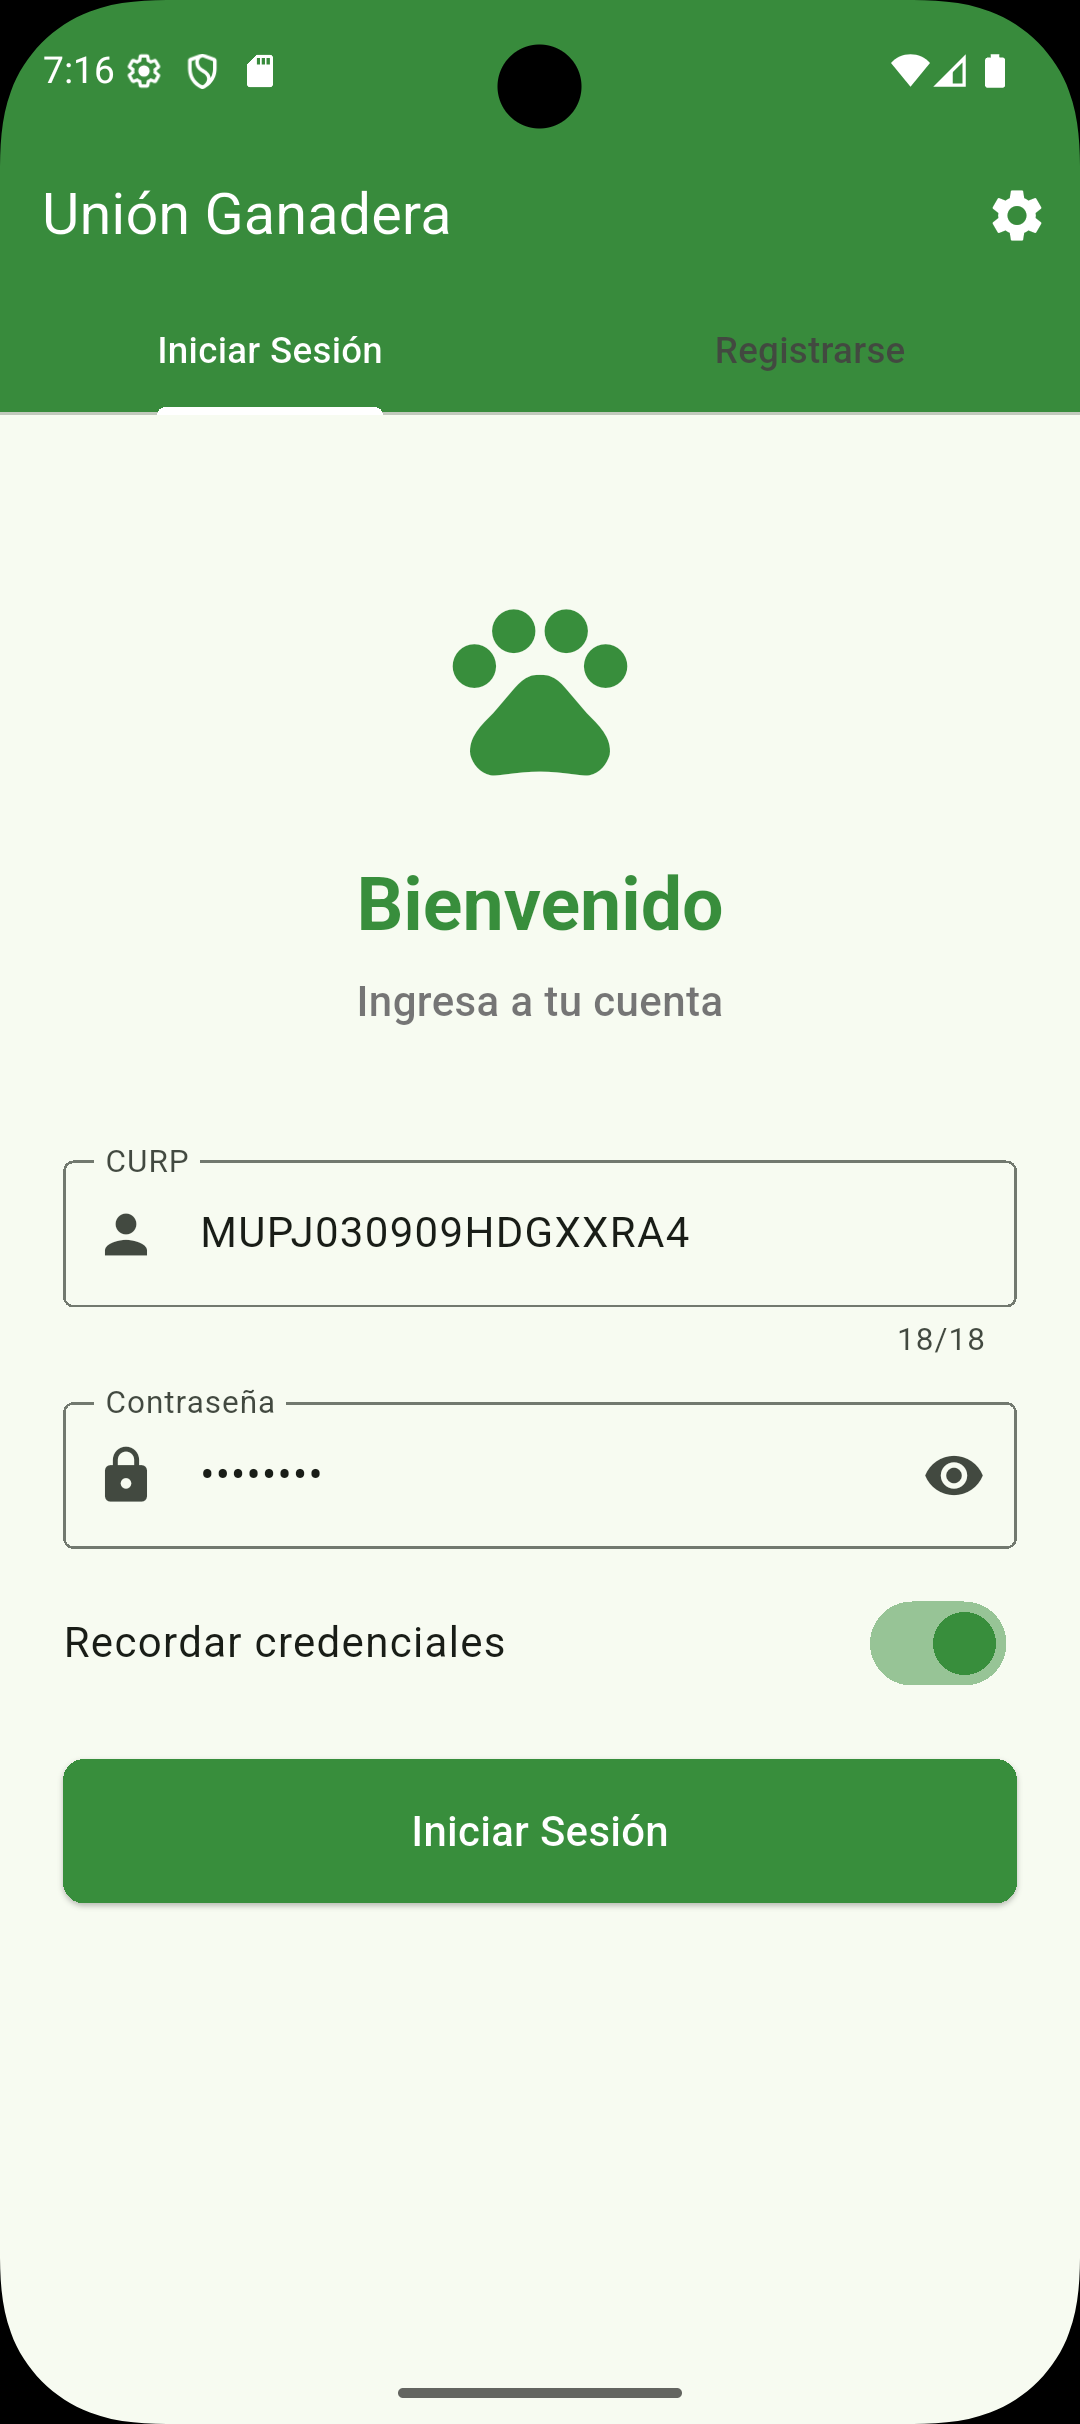
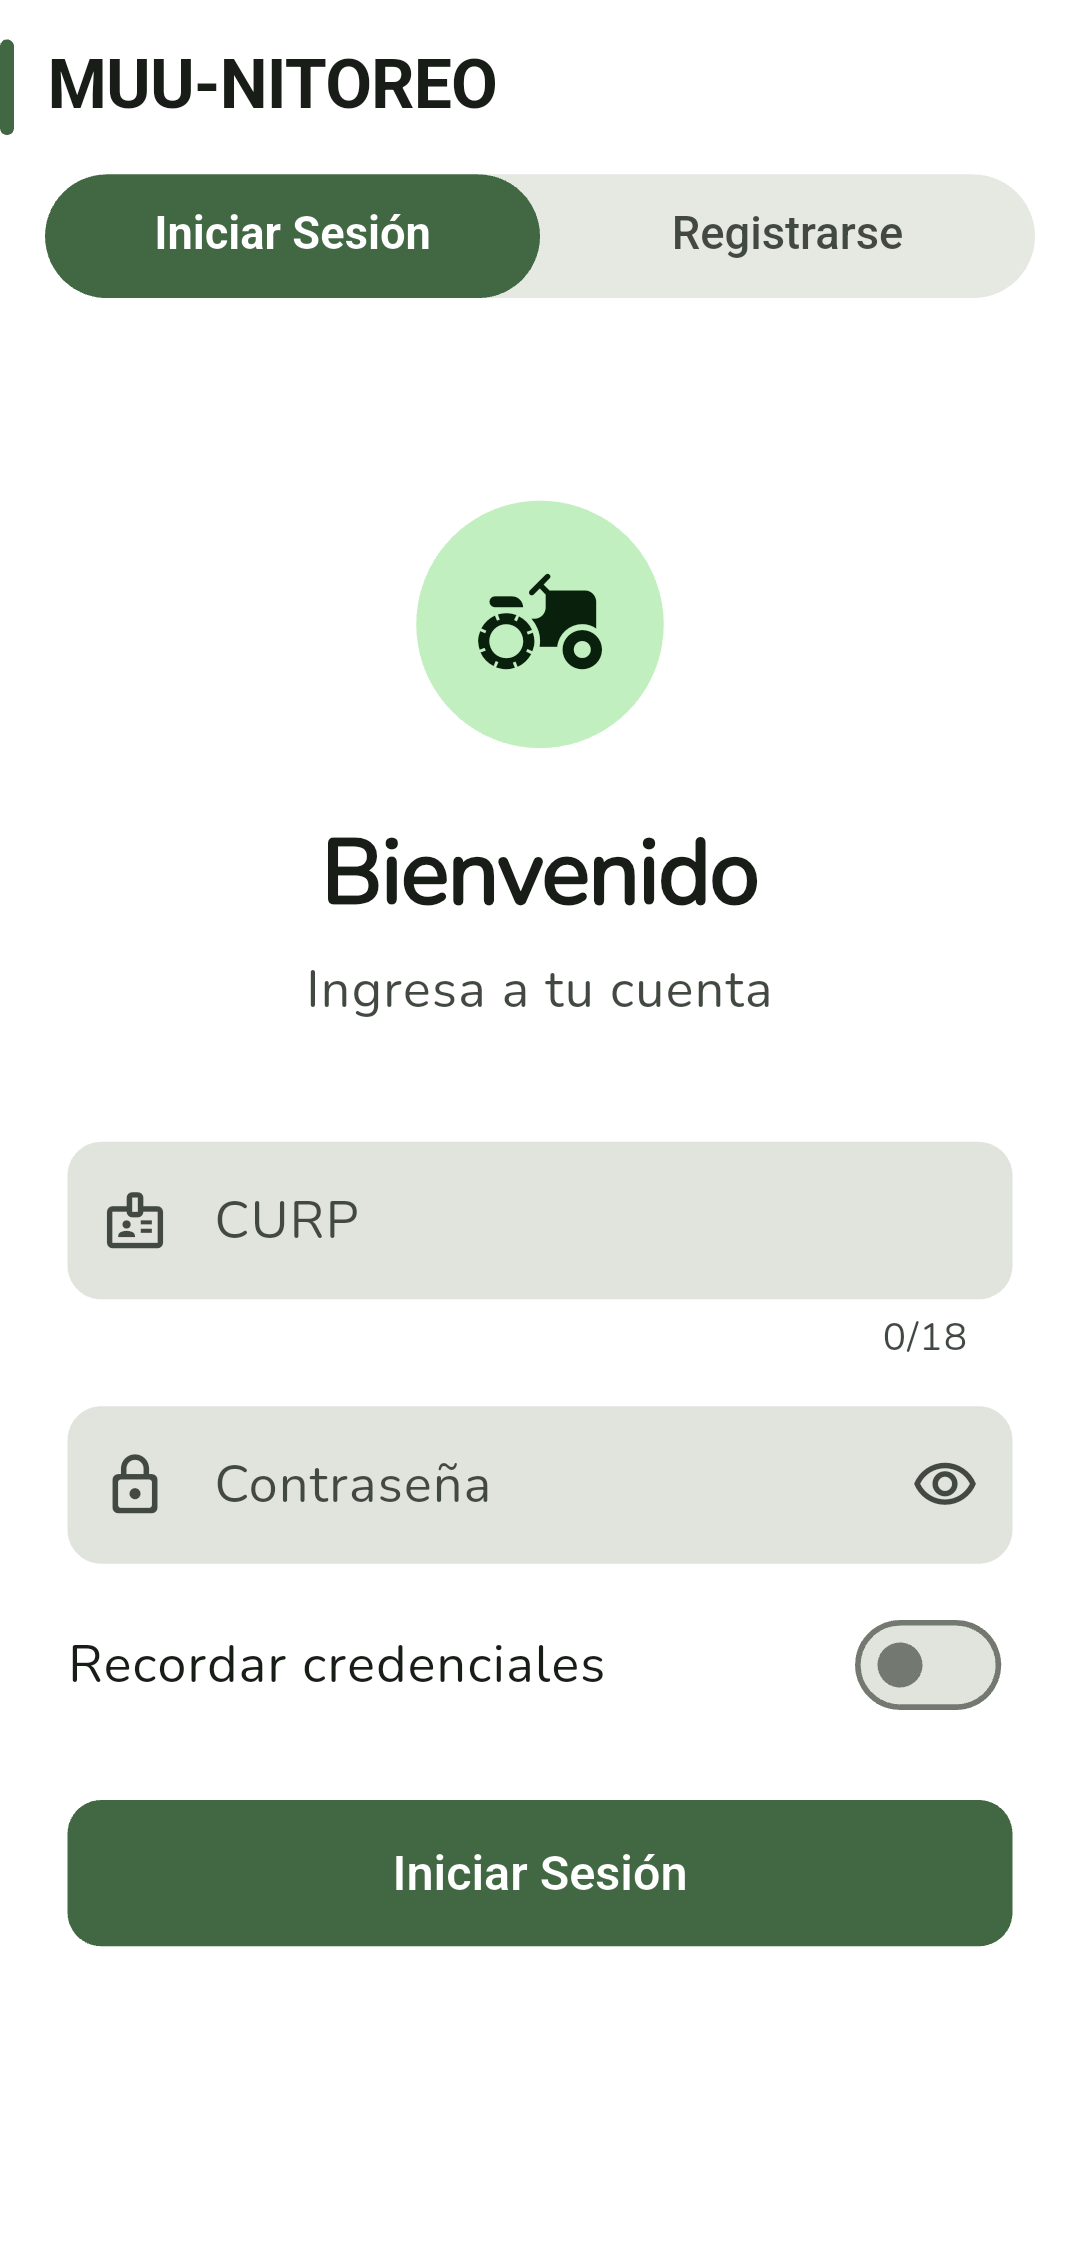
Update readme

diff --git a/README.md b/README.md
@@ -10,7 +10,7 @@ Este proyecto es parte de un ecosistema más grande. Revisa los otros repositori
 
 ## 📋 Descripción
 
-Esta aplicación permite a los ganaderos registrar y gestionar su ganado, predios y eventos relacionados con la actividad ganadera. Incluye funcionalidades avanzadas como lectura de códigos de barras, NFC, captura de ubicación GPS y carga de documentos.
+Esta aplicación permite a los **ganaderos y veterinarios** registrar y gestionar su ganado, predios y eventos relacionados con la actividad ganadera. Incluye funcionalidades avanzadas como lectura de códigos de barras, NFC, captura de ubicación GPS, carga de documentos y una interfaz renovada con **Material 3 Expressive** y fuente **Nunito**.
 
 <p align="center">
   <img src=".resources/img/1.png" width="30%" />
@@ -21,16 +21,21 @@ Esta aplicación permite a los ganaderos registrar y gestionar su ganado, predio
 <p align="center">
   <img src=".resources/img/4.png" width="30%" />
   <img src=".resources/img/5.png" width="30%" />
+  <img src=".resources/img/6.png" width="30%" />
+</p>
+
+<p align="center">
+  <img src=".resources/img/7.png" width="30%" />
 </p>
 
 ## ✨ Características
 
 ### Autenticación de Usuarios
-- Interfaz unificada con tabs (Iniciar Sesión / Registrarse)
+- Interfaz unificada con **tabs segmentados en forma de píldora** (Iniciar Sesión / Registrarse)
 - Registro con validación de INE y CURP (formato automático en mayúsculas)
 - Autenticación JWT con manejo automático de sesiones
 - Guardado opcional de credenciales
-- Configuración de API personalizable (IP y puerto)
+- Configuración de API personalizable (IP y puerto) desde el ícono de engranaje
 - Cierre de sesión automático ante respuestas 401 (no autenticado)
 - Validación de contraseña con límite de 72 caracteres
 
@@ -50,10 +55,11 @@ Esta aplicación permite a los ganaderos registrar y gestionar su ganado, predio
   - Botón flotante de edición en la vista detallada
   - Interfaz idéntica al registro con datos pre-cargados
 - **Selección múltiple:**
-  - Modo de selección múltiple con checkboxes
-  - Registro de eventos masivos para varios animales simultáneamente
+  - Mantén presionado cualquier animal para activar el modo de selección
+  - Checkboxes para seleccionar múltiples animales
+  - Registro de eventos masivos para todos los seleccionados simultáneamente
 - **Historial de eventos:**
-  - Visualización por tipo de evento
+  - Visualización en línea de tiempo por tipo de evento
   - Detalles de peso mostrando peso nuevo y peso anterior
 
 ### Gestión de Predios
@@ -64,19 +70,25 @@ Esta aplicación permite a los ganaderos registrar y gestionar su ganado, predio
 - Manejo adaptativo de teclado en formularios
 
 ### Registro de Eventos
-- **9 tipos de eventos disponibles:**
-  - Peso (con historial de peso anterior)
-  - Dieta
-  - Vacunación
-  - Desparasitación
-  - Laboratorio
-  - Compra/Venta
-  - Traslado
-  - Enfermedad
-  - Tratamiento
-- Registro individual o múltiple (selección masiva)
+
+Los eventos disponibles dependen del **rol del usuario**:
+
+**Todos los usuarios:**
+- `peso` — Registro de peso con historial del peso anterior
+- `dieta` — Cambio de tipo de alimento
+- `compraventa` — Transferencia de propiedad con CURP del comprador
+
+**Solo veterinarios** (rol `veterinario`):
+- `vacunacion` — Tipo, lote, laboratorio y fecha próxima
+- `desparasitacion` — Medicamento, dosis y fecha próxima
+- `laboratorio` — Tipo de análisis y resultado
+- `enfermedad` — Descripción y tratamiento aplicado
+- `tratamiento` — Medicamento, dosis y período
+
+El ID del veterinario se toma automáticamente de la sesión activa — no se solicita al usuario. Los veterinarios también pueden registrar eventos para ganado de terceros desde la pantalla **Eventos Veterinarios** (búsqueda por código de barras o RFID).
+
+- Registro individual o masivo (selección múltiple)
 - Historial completo de eventos agrupados por tipo
-- Visualización de eventos con detalles específicos según el tipo
 
 ### Perfil de Usuario
 - Visualización de datos personales
@@ -87,7 +99,7 @@ Esta aplicación permite a los ganaderos registrar y gestionar su ganado, predio
 ## 🛠 Requisitos Previos
 
 - Flutter SDK 3.7.2 o superior
-- Dart 2.19.0 o superior
+- Dart 3.0.0 o superior
 - Android Studio / VS Code con extensiones de Flutter
 - Dispositivo Android/iOS o emulador configurado
 - API Backend en ejecución (ver [API_DOCUMENTATION.md](API_DOCUMENTATION.md))
@@ -155,25 +167,37 @@ La aplicación requiere los siguientes permisos:
 - NSPhotoLibraryUsageDescription (galería de fotos)
 - NFCReaderUsageDescription (lectura de tags NFC)
 
-## 🎨 Características de Diseño
+## 🎨 Diseño — Material 3 Expressive
 
-### Material Design 3
-- Paleta de colores consistente con tema verde para ganadería
-- Tipografía Roboto con jerarquía clara
-- Elevaciones y sombras sutiles para profundidad
+### Tema y Colores
+- Paleta generada con `ColorScheme.fromSeed` usando verde forestal `#1B6E35`
+- `scaffoldBackgroundColor: surfaceContainerLowest` — fondo ultra-suave
+- `useMaterial3: true` en toda la app
 
-### Componentes Personalizados
-- **Button Groups:** ChoiceChip wraps para opciones múltiples (raza, propósito, status)
-- **Grid Layout:** Cards con iconos para información estructurada
-- **Modal Sheets:** Bottom sheets con bordes redondeados y manejo de teclado
-- **FABs Extendidos:** Botones flotantes con etiquetas para mejor UX
-- **Gradientes:** Headers con gradientes para destacar información clave
+### Tipografía
+- Fuente principal: **Nunito** (via `google_fonts`) aplicada a todo el `textTheme`
+- Peso 700 para títulos, 500 para texto secundario
+
+### AppBar (`ModernAppBar`) — Diseño Asimétrico
+- **Barra de acento vertical** de 5×34dp en el color primario — identificador visual de pantalla
+- **Back button** como chip compacto relleno en `accentColor`
+- Título alineado a la izquierda junto al acento
+- Fondo `surfaceContainerLowest` con sombra sutil al hacer scroll
+- El color de acento es personalizable por pantalla via `backgroundColor`
+
+### Componentes
+- **TabBar segmentado:** Píldora con indicador relleno en `primary` (pantalla de autenticación)
+- **Botones:** `FilledButton` primario, `FilledButton.tonal` secundario, `OutlinedButton` neutro
+- **Cards:** Elevación 0, radio 16dp — `surfaceContainerHigh/Low` según contexto
+- **FABs:** `FloatingActionButton.extended` principal, `FloatingActionButton.small` secundario
+- **Bottom Sheets:** Radio superior 28dp con drag handle visible
+- **Inputs:** `filled: true`, radio 12dp, sin borde en estado normal
+- **ChoiceChip en grupos:** Para raza, propósito y status del ganado
 
 ### Responsive & Adaptativo
-- Diseño optimizado para pantallas móviles
-- Manejo automático de teclado en formularios
-- ScrollController para listas largas
-- SafeArea para notches y barras de sistema
+- `LayoutBuilder + Wrap` para grids de información (reemplaza `GridView` fijo)
+- `SafeArea` en todas las rutas
+- Manejo automático de teclado con `SingleChildScrollView`
 
 ## 🚀 Ejecución
 
@@ -242,9 +266,9 @@ flutter run -d <device_id>
    - Guarda los cambios
 
 4. **Selección múltiple:**
-   - Presiona el botón naranja "Selección Múltiple"
-   - Selecciona varios animales usando los checkboxes
-   - Registra eventos para todos los seleccionados simultáneamente
+   - Mantén presionado cualquier animal para activar el modo de selección
+   - Selecciona los animales adicionales con un toque
+   - Presiona el ícono de evento en la AppBar para registrar el evento masivo
 
 5. **Consultar historial:**
    - En la vista detallada, revisa el historial de eventos agrupados por tipo
@@ -265,16 +289,21 @@ flutter run -d <device_id>
 
 ### Registro de Eventos
 1. **Evento individual:**
-   - Selecciona "Eventos" en el menú
-   - Elige el animal para el evento
-   - Selecciona el tipo de evento
-   - Completa el formulario específico del evento
-   - Envía el registro
+   - En la vista detallada del animal, presiona **"Nuevo Evento"**
+   - Selecciona el tipo de evento (los tipos veterinarios solo aparecen si tu rol es `veterinario`)
+   - Completa el formulario y presiona **"Registrar Evento"**
 
 2. **Evento múltiple:**
-   - Activa el modo de selección múltiple en la lista de ganado
-   - Selecciona los animales
-   - Registra el evento (se aplicará a todos los seleccionados)
+   - Mantén presionado un animal para activar selección múltiple
+   - Selecciona los animales adicionales
+   - Toca el ícono de evento en la AppBar
+   - El evento se aplicará a todos los seleccionados
+
+3. **Veterinarios — eventos para ganado de terceros:**
+   - Desde el menú principal ve a **"Eventos Veterinarios"**
+   - Busca el animal por código de barras o RFID (con opción de escanear cámara)
+   - Selecciona y completa el tipo de evento veterinario
+   - El ID del veterinario se asigna automáticamente
 
 ## 📂 Estructura del Proyecto
 
@@ -293,51 +322,56 @@ lib/
 │   ├── predio_service.dart             # CRUD de predios
 │   ├── evento_service.dart             # Registro de eventos por tipo
 │   └── file_service.dart               # Carga de documentos multipart
-├── screens/                            # Pantallas de la aplicación
+├── screens/
+│   ├── splash_screen.dart              # Splash animado (escala + fade)
 │   ├── auth/
-│   │   ├── auth_screen.dart            # Autenticación con tabs (Login/Signup)
+│   │   ├── auth_screen.dart            # Tabs segmentados Login/Signup
+│   │   ├── login_screen.dart           # Formulario de inicio de sesión
 │   │   └── signup_screen.dart          # Formulario de registro
 │   ├── home/
-│   │   └── home_screen.dart            # Pantalla principal con navegación
+│   │   └── home_screen.dart            # NavigationBar M3 con 4 destinos
 │   ├── cattle/
-│   │   ├── cattle_list_screen.dart     # Lista con selección múltiple
+│   │   ├── cattle_list_screen.dart     # Lista + selección múltiple + buscador
 │   │   ├── register_cattle_screen.dart # Registro con button groups y foto nariz
 │   │   ├── edit_cattle_screen.dart     # Edición con datos pre-cargados
-│   │   └── cattle_detail_screen.dart   # Vista detallada con diseño grid
+│   │   └── cattle_detail_screen.dart   # Vista grid responsiva + historial de eventos
 │   ├── predios/
-│   │   ├── predios_screen.dart         # Lista + modal de registro
-│   │   └── predio_detail_screen.dart   # Detalles del predio
+│   │   └── predios_screen.dart         # Lista + bottom sheet de registro con GPS
 │   ├── events/
-│   │   └── register_event_screen.dart  # Registro de eventos por tipo
+│   │   ├── register_event_screen.dart  # Eventos propios (tipos según rol)
+│   │   └── vet_event_screen.dart       # Búsqueda de bovino + eventos veterinarios
 │   ├── profile/
 │   │   └── profile_screen.dart         # Perfil con carga de documentos
 │   └── settings/
 │       └── api_settings_screen.dart    # Configuración de IP/Puerto API
-├── utils/                              # Utilidades
-│   └── curp_validator.dart             # Validador RFC de CURP
-└── widgets/                            # Widgets reutilizables
-    └── (componentes compartidos)
+└── utils/
+    ├── modern_app_bar.dart             # AppBar asimétrico M3 Expressive compartido
+    └── curp_validator.dart             # Validador de formato CURP
 ```
 
 ## 🔧 Tecnologías Utilizadas
 
-- **Framework:** Flutter 3.7.2+ con Material Design 3
-- **Lenguaje:** Dart 2.19.0+
-- **HTTP Client:** dio (^5.4.0) con interceptores JWT
-- **Almacenamiento Seguro:** flutter_secure_storage (^9.0.0) para tokens y credenciales
-- **Gestión de Estado:** provider (^6.1.1), StatefulWidget, GlobalKey<NavigatorState>
-- **Imágenes:** image_picker (^1.0.7) para fotos de nariz y documentos
-- **Ubicación:** geolocator (^11.0.0), permission_handler (^11.2.0)
-- **Escaneo:** mobile_scanner (^3.5.5) para códigos de barras, nfc_manager (^3.3.0)
-- **Internacionalización:** intl (^0.19.0)
-- **UI Components:** ChoiceChip, Modal Bottom Sheets, FloatingActionButton.extended
+| Paquete | Versión | Uso |
+|---|---|---|
+| `dio` | ^5.4.0 | Cliente HTTP con interceptores JWT |
+| `flutter_secure_storage` | ^9.0.0 | Tokens y credenciales cifrados |
+| `google_fonts` | ^6.2.1 | Tipografía en todo el tema |
+| `image_picker` | ^1.0.7 | Fotos de nariz y documentos |
+| `file_picker` | ^10.3.8 | Selección de archivos para documentos |
+| `geolocator` | ^11.0.0 | Coordenadas GPS para predios |
+| `permission_handler` | ^11.2.0 | Permisos en runtime |
+| `mobile_scanner` | ^3.5.5 | Lectura de códigos de barras |
+| `nfc_manager` | ^3.3.0 | Lectura de tags NFC |
+| `provider` | ^6.1.1 | Gestión de estado global |
+| `intl` | ^0.19.0 | Formateo de fechas |
 
 ### Patrones y Arquitectura
-- **Autenticación:** JWT con refresh automático y manejo global de errores 401
-- **Navegación:** GlobalKey para navegación desde interceptores
-- **Formularios:** Button groups con ChoiceChip para opciones múltiples
+- **Autenticación:** JWT con manejo global de errores 401 via interceptor Dio
+- **Roles:** Detección de rol `veterinario` en cliente para control de UI; validación adicional en API
+- **Navegación:** `GlobalKey<NavigatorState>` para navegación desde interceptores
+- **Formularios:** `ChoiceChip` en grupos para selección de opciones múltiples
 - **Upload:** Multipart/form-data para fotos y documentos
-- **UX Móvil:** Modal bottom sheets, FABs extendidos, diseño grid responsivo
+- **Tema:** `ColorScheme.fromSeed` + `GoogleFonts.nunitoTextTheme` aplicado globalmente en `main.dart`
 
 ## 📖 Documentación Adicional
 
